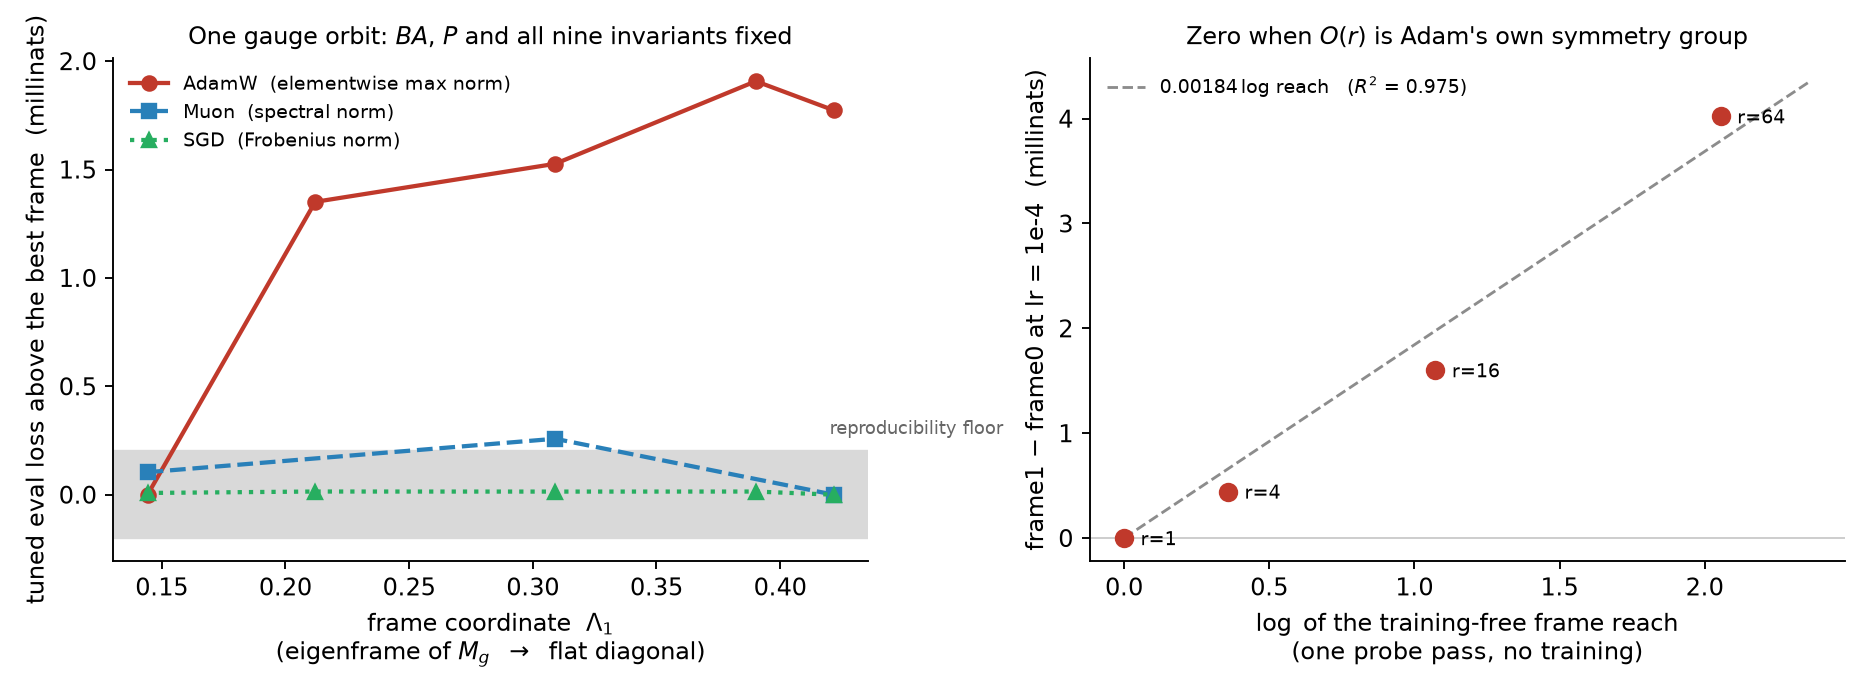
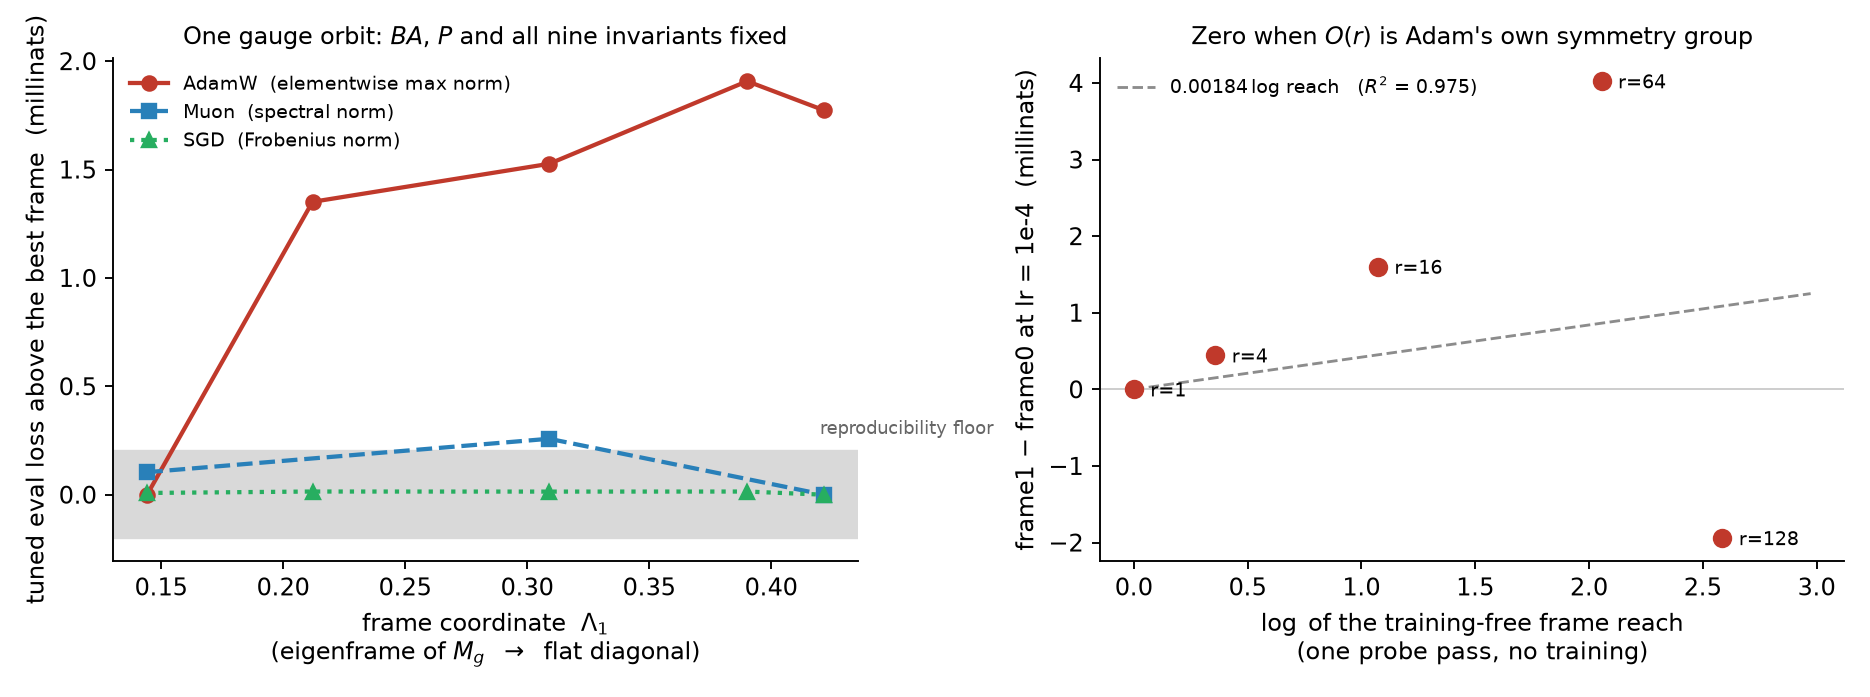
Two gaps found by auditing coverage claim-by-claim, both queued
GAP 1, and it is on the most important section.  Section 3's optimizer-to-class
map is the paper's central contribution; the analytic table covers nine
optimizers but the TRAINING demonstration covers five, all on Qwen3-0.6B:

    Qwen3-0.6B     sgd 12   muon 24   matprec 16   lion 16   adamw 28
    Llama-3.2-3B   sgd  9   muon  0   matprec  0   lion  0   adamw 12
    OLMo-2-1B      sgd  8   muon  0   matprec  0   lion  0   adamw 16

Same single-model weakness just closed for sections 6 and 7, sitting on the
section that matters most.  36 cells queued: muon, matprec and lion on OLMo,
chosen for its 2.6e-08 floor.  If the map is a rule and not a Qwen coincidence,
Muon and matrix-preconditioned Adam sit at that floor and Lion sits above it.

GAP 2.  Every scope panel is Qwen, and the 8B one -- the only scale evidence --
is bf16 throughout, with an SGD arm reading 6.3e-04 against 1.0e-05 for the same
optimizer in fp32 at 0.6B.  Given what bf16 did to Llama (floor up 3.5x,
conditions compressed, a 9x effect turned into a 1.2x null), the 8B "reversal"
that cost three heartbeats may be the same artefact rather than anything about
scale.  18 cells queued for an fp32 8B ladder that carries its own SGD floor,
which the bf16 version never did.

diff --git a/paper/RESULTS.md b/paper/RESULTS.md
@@ -71,11 +71,11 @@ What the ladder can move is `O(r)` modulo AdamW's own symmetry group, the signed
 
 | r | dim `O(r)`/signed perms | `frame1 − frame0` at lr=1e-4 | tuned gap |
 |---|---|---|---|
-| 1 | 0 | -0.00000 | 0.00011 (0.4×) |
+| 1 | 0 | -0.00000 | 0.00146 (5.4×) |
 | 4 | 6 | +0.00044 | 0.00094 (3.5×) |
 | 16 | 120 | +0.00160 | 0.00157 (5.8×) |
-| 64 | 2016 | +0.00402 | 0.00402 (14.9×) |
-| 128 | 8128 | -0.00194 | 0.00161 (6.0×) |
+| 64 | 2016 | +0.00402 | 0.00302 (11.2×) |
+| 128 | 8128 | -0.00194 | 0.00197 (7.3×) |
 
 No confound of the frame ladder — learning-rate scale, initialisation magnitude, data order, gradient noise — is zero at rank 1 and monotone in `r(r−1)/2` thereafter.
 
